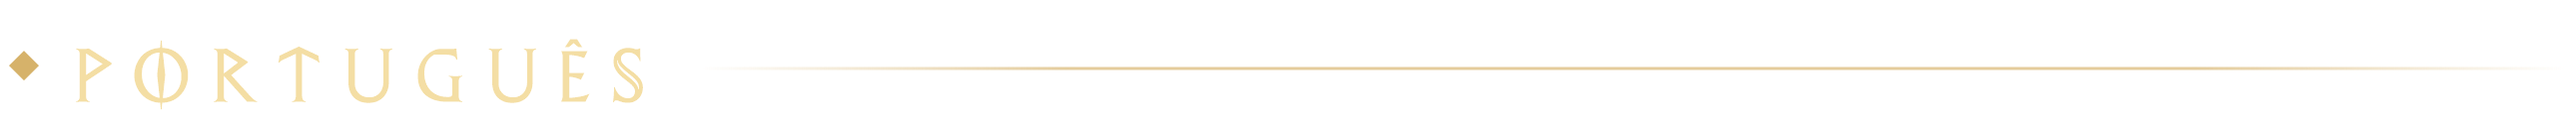
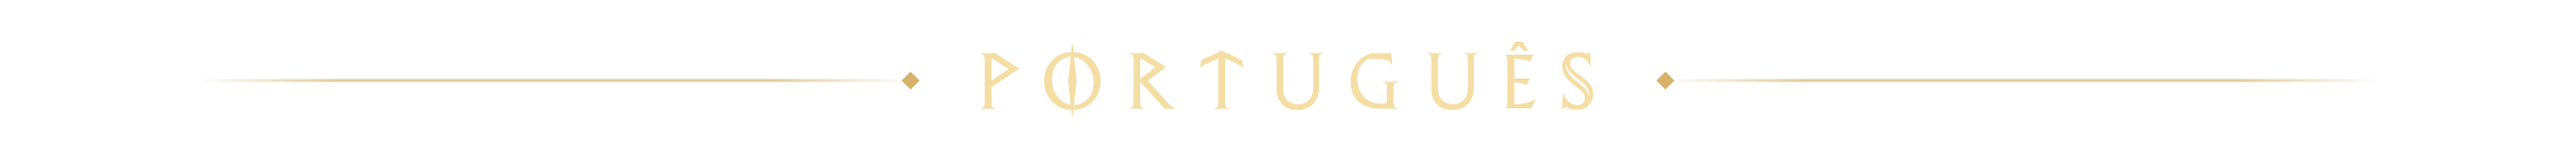
README: centered Portuguese divider

Changed region(s): [[0.0, 0.303, 0.9612, 0.7879]]

diff --git a/README.md b/README.md
@@ -95,7 +95,7 @@ GPL-3.0, same as the original projects (see `LICENSE`).
 <p align="center">
   <picture>
     <source media="(prefers-color-scheme: dark)" srcset="docs/images/headings/h-portugues-dark.png">
-    <img src="docs/images/headings/h-portugues-light.png" width="560" alt="Português">
+    <img src="docs/images/headings/h-portugues-light.png" width="700" alt="Português">
   </picture>
 </p>
 <a id="portugues"></a>
